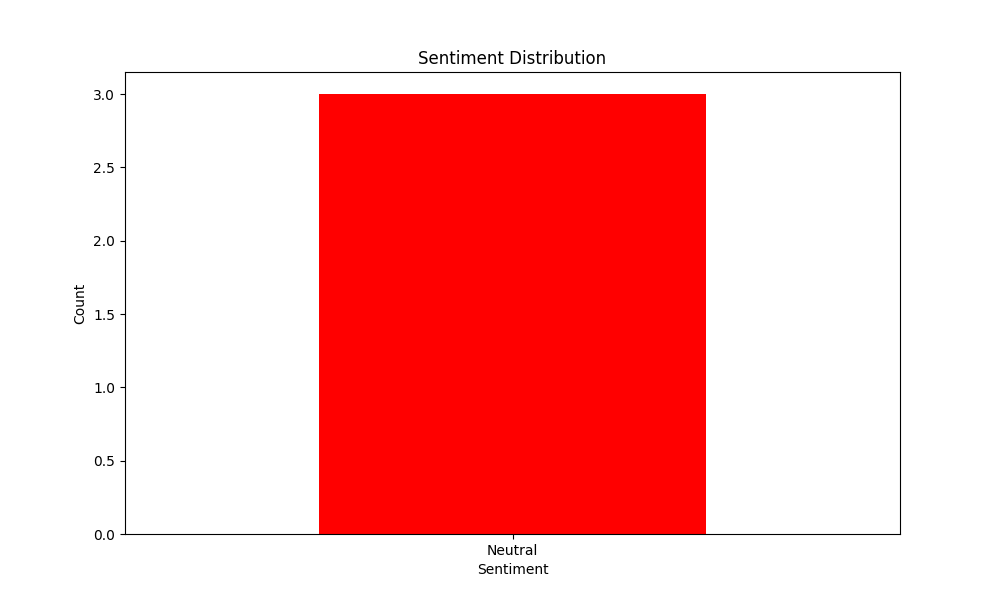
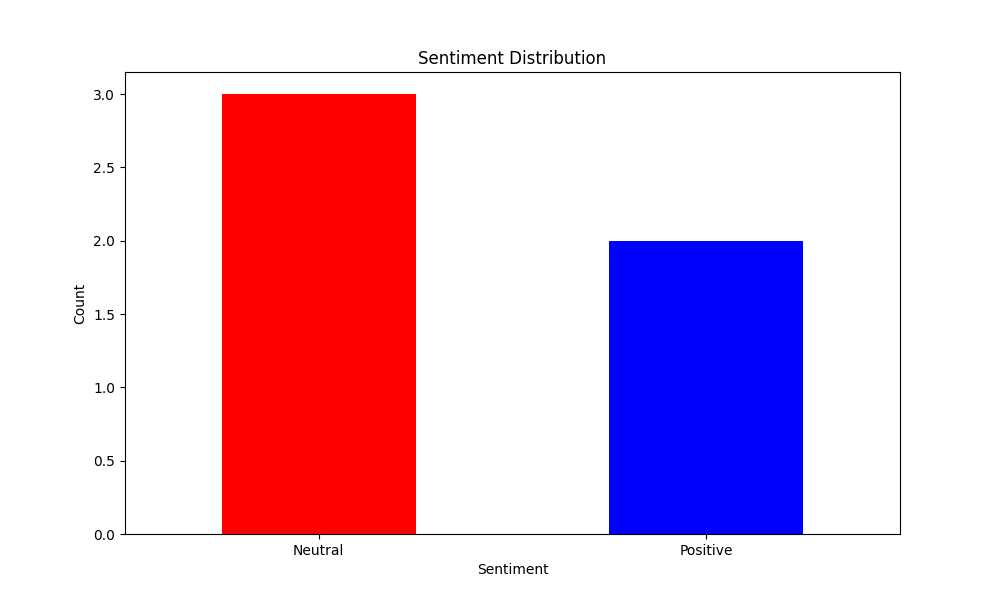
Fully functional model

diff --git a/train_model.py b/train_model.py
@@ -13,28 +13,31 @@ import numpy as np
 device = torch.device('cuda' if torch.cuda.is_available() else 'cpu')
 print(f"Using device: {device}")
 
-# Load dataset
+# Load and preprocess data
 data = pd.read_csv('data/train.csv')
 
-# Clean and map ratings
+# Drop rows with missing values
 data = data.dropna(subset=['Review', 'Rating'])
+
+# Ensure 'Rating' column is numeric and clean any non-numeric entries
 data['Rating'] = pd.to_numeric(data['Rating'], errors='coerce')
 data = data.dropna(subset=['Rating'])
 data['Rating'] = data['Rating'].astype(int)
 
-# Keep only relevant ratings
-rating_map = {1: 0, 3: 1, 5: 2}  # Negative: 0, Neutral: 1, Positive: 2
-data = data[data['Rating'].isin(rating_map)]
+# Map ratings to sentiment labels
+rating_map = {1: 0, 3: 1, 5: 2}  # Negative, Neutral, Positive
+data = data[data['Rating'].isin(rating_map.keys())]
 data['Rating'] = data['Rating'].map(rating_map)
 
-# 🧪 Optional: Use a sample to debug (uncomment during testing)
-# data = data.sample(500, random_state=42)
+# Sample small subset for faster training (remove this for full training later)
+data = data.sample(n=1000, random_state=42).reset_index(drop=True)
 
-if data.empty:
-    print("No valid data available after filtering. Exiting...")
+# Exit if no valid data remains
+if len(data) == 0:
+    print("No valid data available after filtering ratings. Exiting...")
     exit()
 
-# Split data
+# Train-test split
 train_texts, val_texts, train_labels, val_labels = train_test_split(
     data['Review'].tolist(),
     data['Rating'].tolist(),
@@ -60,7 +63,7 @@ class SentimentDataset(Dataset):
             text,
             truncation=True,
             padding='max_length',
-            max_length=128,
+            max_length=64,
             return_tensors='pt'
         )
         return {
@@ -69,31 +72,31 @@ class SentimentDataset(Dataset):
             'labels': torch.tensor(label, dtype=torch.long)
         }
 
+# Create datasets and loaders
 train_dataset = SentimentDataset(train_texts, train_labels)
 val_dataset = SentimentDataset(val_texts, val_labels)
 
-# ⚠ Reduce batch size to prevent memory issues
-train_loader = DataLoader(train_dataset, batch_size=4, shuffle=True)
-val_loader = DataLoader(val_dataset, batch_size=4)
+train_loader = DataLoader(train_dataset, batch_size=32, shuffle=True)
+val_loader = DataLoader(val_dataset, batch_size=32)
 
-# Load model
+# Load pre-trained model
 model = DistilBertForSequenceClassification.from_pretrained(
     'distilbert-base-uncased',
     num_labels=3
 )
 model.to(device)
 
-# Class weights for imbalance
+# Compute class weights
 class_weights = compute_class_weight('balanced', classes=np.array([0, 1, 2]), y=data['Rating'])
 class_weights = torch.tensor(class_weights, dtype=torch.float).to(device)
 
 # Optimizer
 optimizer = AdamW(model.parameters(), lr=2e-5)
 
-# Training Loop
-epochs = 3
+# Training loop
+epochs = 2
 for epoch in range(epochs):
-    print(f"\nEpoch {epoch + 1}")
+    print(f"Epoch {epoch + 1}")
     model.train()
     train_loss = 0
     for batch in tqdm(train_loader, desc="Training"):
@@ -128,7 +131,7 @@ for epoch in range(epochs):
     val_accuracy = accuracy_score(val_labels_list, val_preds)
     print(f"Validation Accuracy: {val_accuracy * 100:.2f}%")
 
-# Save model
+# Save model and tokenizer
 model.save_pretrained('model/')
 tokenizer.save_pretrained('model/')
-print("✅ Model saved to /model/")
+print("Model saved!")

diff --git a/app.py b/app.py
@@ -5,15 +5,17 @@ import matplotlib
 matplotlib.use('Agg')  # Use Agg backend for non-interactive plotting
 import matplotlib.pyplot as plt
 from flask import Flask, request, render_template, send_from_directory
-from transformers import BertTokenizer, BertForSequenceClassification
+from transformers import DistilBertTokenizer, DistilBertForSequenceClassification
+
 import torch
 
 app = Flask(__name__)
 
 # Load the BERT model and tokenizer
 model_path = 'model/'  # Path to your model directory
-model = BertForSequenceClassification.from_pretrained(model_path)
-tokenizer = BertTokenizer.from_pretrained(model_path)
+tokenizer = DistilBertTokenizer.from_pretrained(model_path)
+model = DistilBertForSequenceClassification.from_pretrained(model_path)
+
 
 # Ensure the model is on the correct device
 device = torch.device('cuda' if torch.cuda.is_available() else 'cpu')
